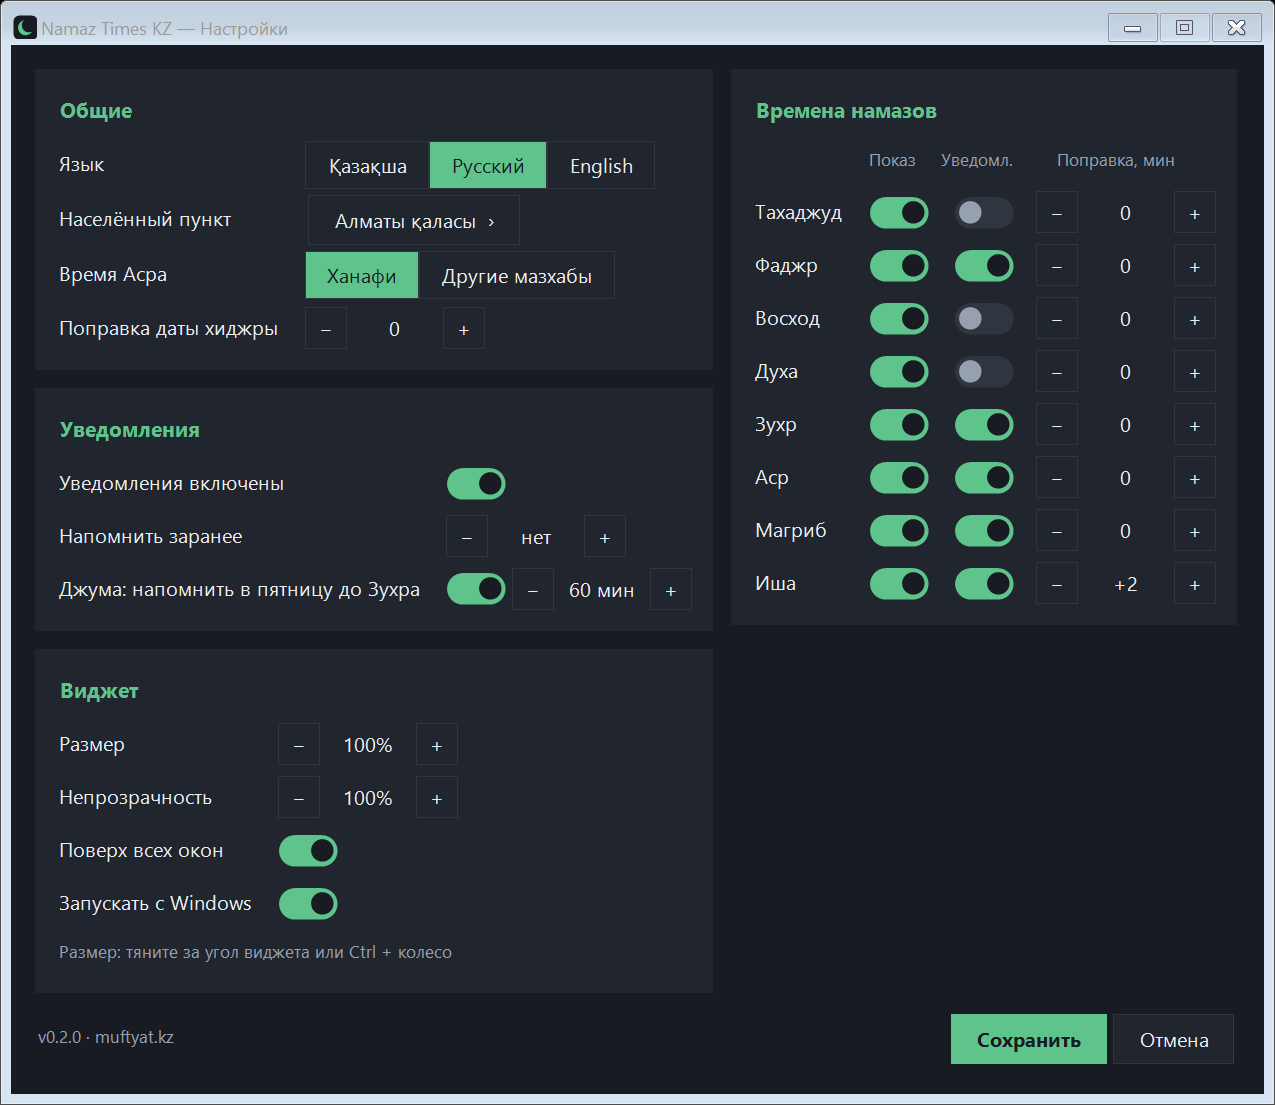
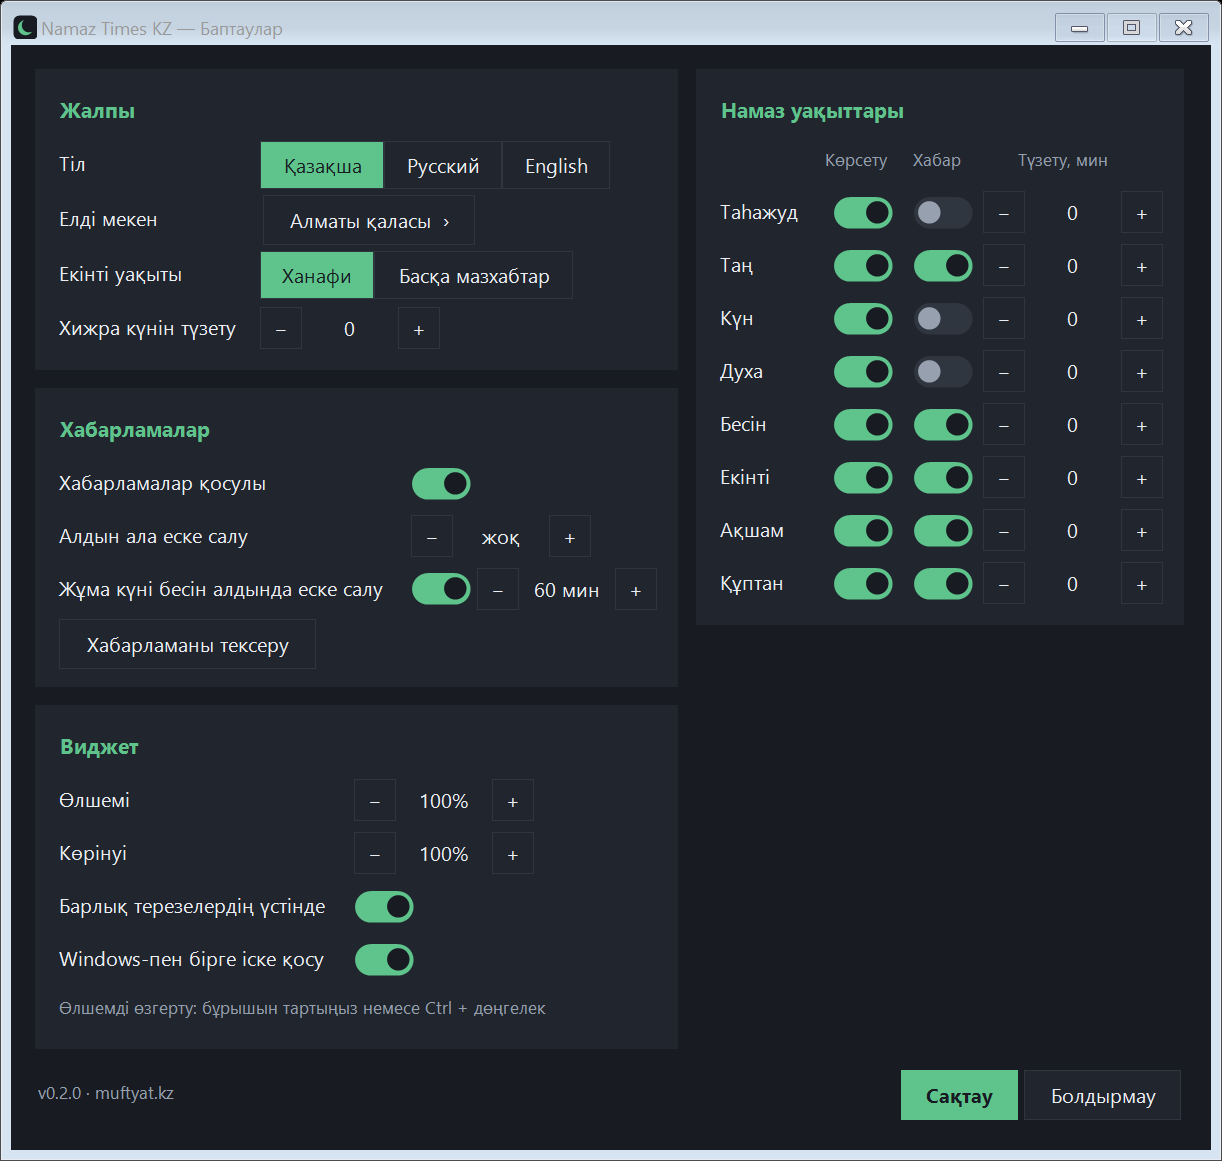
README in Kazakh; Kazakh screenshots

diff --git a/README.md b/README.md
@@ -1,46 +1,55 @@
 # Namaz Times KZ
 
-Время намаза для Казахстана по данным ДУМК ([muftyat.kz](https://muftyat.kz)) — виджет на рабочий стол и уведомления.
-Қазақша · Русский · English.
+Windows-қа арналған намаз уақыттары: жұмыс үстеліндегі виджет және хабарламалар.
+Уақыттар Қазақстан мұсылмандары діни басқармасының ([muftyat.kz](https://muftyat.kz)) ресми деректері бойынша алынады.
 
-<img src="docs/screenshot.png" width="260" alt="виджет"> <img src="docs/settings.png" width="520" alt="настройки">
+Интерфейс тілдері: қазақша · орысша · ағылшынша.
 
-## Возможности
+<img src="docs/screenshot.png" width="260" alt="виджет"> <img src="docs/settings.png" width="520" alt="баптаулар">
 
-- **Виджет**: часы, дата по григорианскому календарю и хиджре, отсчёт до следующего намаза, праздник дня.
-  Перетаскивается мышью; размер — тянуть за правый нижний угол или Ctrl + колесо.
-- **8 времён**: Тахаджуд, Фаджр, Восход, Духа, Зухр, Аср, Магриб, Иша — каждое можно скрыть.
-- **Уведомления**: в момент намаза и заранее; колокольчик в строке виджета включает/выключает одним кликом.
-  Джума — напоминание в пятницу до Зухра.
-- **Аср**: Ханафи (как у ДУМК) или другие мазхабы.
-- **Ручная поправка** каждого времени в минутах.
-- **Расписание на месяц** с листанием по месяцам.
-- **Исламские праздники** на год вперёд.
-- **5700 населённых пунктов** Казахстана, список встроен и работает офлайн; поиск понимает «караганда» → «Қарағанды».
-- Расписание скачивается раз в год и работает без интернета (`%AppData%\NamazTimes`).
-- Проверка обновлений через GitHub Releases.
+## Жүктеп алу
 
-### Как считаются дополнительные времена
+[Releases](../../releases/latest) бетінен:
 
-- **Тахаджуд** — начало последней трети ночи (Магриб → Фаджр).
-- **Духа** — четверть светового дня после восхода: восход + (закат − восход) / 4.
-- **Аср не-ханафи** — время ДУМК минус астрономическая разница между тенью 2× и 1×.
-- **Хиджра** — календарь Умм аль-Кура; в настройках есть поправка ±2 дня под объявления ДУМК.
+- **`NamazTimes-x.y.z.msi`** — орнатқыш («Бастау» мәзіріне белгіше қосады, «Қолданбалар» арқылы жойылады);
+- **`NamazTimes.exe`** — орнатусыз іске қосылатын бір файл.
 
-## Скачать
+Қосымша ештеңе (.NET т.б.) орнатудың қажеті жоқ.
 
-Из [Releases](../../releases):
-- `NamazTimes-x.y.z.msi` — установщик (меню «Пуск», удаление через «Приложения»);
-- `NamazTimes.exe` — один файл без установки.
+> Файлдарға цифрлық қолтаңба қойылмаған, сондықтан алғаш іске қосқанда Windows SmartScreen ескерту көрсетуі мүмкін:
+> «Толығырақ» → «Бәрібір іске қосу» басыңыз.
 
-## Сборка
+## Мүмкіндіктер
+
+- **Виджет**: сағат, григориан және хижра күнтізбесі бойынша күн, келесі намазға дейінгі кері санақ, бүгінгі мереке.
+  Тінтуірмен кез келген жерге жылжытылады; өлшемі — оң жақ төменгі бұрышынан тарту немесе Ctrl + дөңгелек.
+  Тінтуірді апарғанда «Жию», «Толық экран», «Жабу» батырмалары шығады.
+- **Уақыттар**: Таң, Күн (Духа), Бесін, Екінті, Ақшам, Құптан, Таһажуд — әрқайсысын жасыруға болады.
+- **Хабарламалар**: намаз уақыты кіргенде және алдын ала (N минут бұрын). Виджеттегі 🔈 белгісін бір рет басу арқылы қосылады/өшіріледі.
+  Жұма күні бесін алдында еске салу.
+- **Екінті уақыты**: Ханафи (ДҰМ сияқты) немесе басқа мазхабтар.
+- **Қолмен түзету**: әр уақытты ± минутқа жылжыту.
+- **Айлық кесте**: айлар бойынша парақтау.
+- **Ислам мерекелері**: бір жыл алға.
+- **5700-ден астам елді мекен**: тізім бағдарламаның ішінде, интернетсіз жұмыс істейді.
+- Кесте жылына бір рет жүктеледі, содан кейін интернетсіз жұмыс істейді (`%AppData%\NamazTimes`).
+- Жаңартуларды GitHub Releases арқылы тексереді.
+
+### Қосымша уақыттар қалай есептеледі
+
+- **Таһажуд** — түннің соңғы үштен бірінің басы (Ақшамнан Таңға дейін).
+- **Духа** — күн шыққаннан кейін жарық күннің төрттен бірі: күн шығуы + (күн батуы − күн шығуы) / 4.
+- **Басқа мазхабтар бойынша Екінті** — ДҰМ уақытынан 2× және 1× көлеңке арасындағы астрономиялық айырма алынады.
+- **Хижра** — Умм әл-Құра күнтізбесі; ДҰМ хабарландыруына сай баптауларда ±2 күн түзету бар.
+
+## Құрастыру
 
 ```
 dotnet build -c Release
 ```
 
-Установщик (WiX 5): `dotnet build installer -p:ProductVersion=0.2.0 -p:ExePath=..\out\NamazTimes.exe`
+Орнатқыш (WiX 5): `dotnet build installer -p:ProductVersion=0.2.0 -p:ExePath=..\out\NamazTimes.exe`
 
-Релиз: `git tag v0.2.0 && git push --tags` — GitHub Actions соберёт exe и MSI и опубликует релиз.
+Жаңа нұсқа шығару: `git tag v0.3.0 && git push origin v0.3.0` — GitHub Actions exe мен MSI құрастырып, релиз жариялайды.
 
-Обновить список городов: `node tools/cities.mjs`.
+Елді мекендер тізімін жаңарту: `node tools/cities.mjs`.
